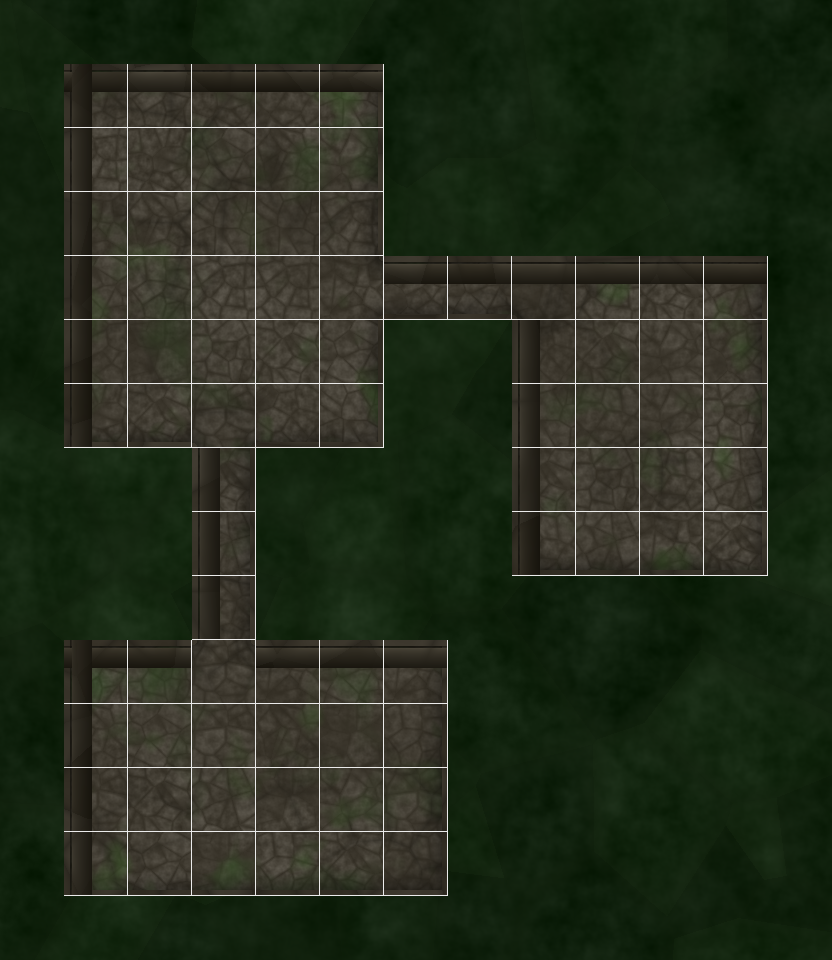
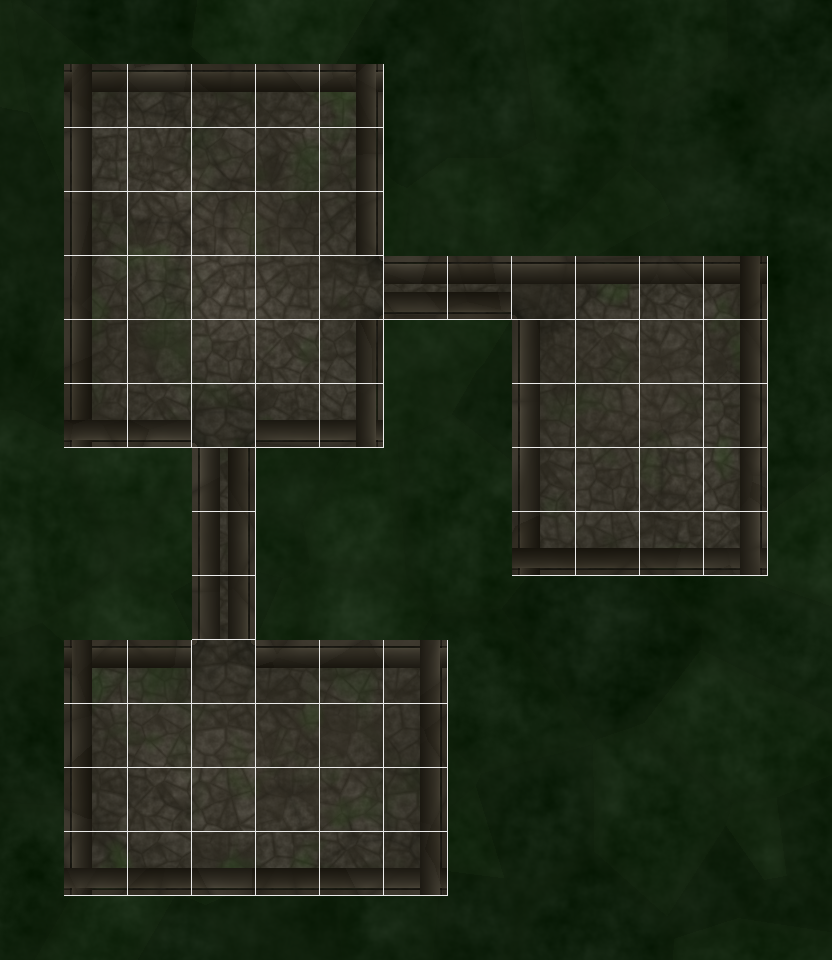
Move walls outside floor extent into void
Wall top border and inner faces now render entirely in the void,
adjacent to floor edges. Floor area stays full-size with grid
squares going edge-to-edge. Uses void distance transform to place
wall bands at correct distances from the floor boundary.

diff --git a/tools/texgen/preview.py b/tools/texgen/preview.py
@@ -342,20 +342,16 @@ def render_exterior(canvas_arr, floor_mask, theme):
 
 def render_walls(canvas_arr, floor_mask, theme):
     """
-    2.5D wall rendering — looking DOWN into rooms.
+    2.5D wall rendering — walls are OUTSIDE the floor extent.
 
-    Far walls (north, west) show their inner face INTO the floor area.
-    Near walls (south, east) show only the wall-top border.
-    This creates the illusion of recessed rooms, not elevated platforms.
-
-    - Wall top border: floor pixels within WALL_THICKNESS of any edge
-    - North inner face: floor pixels below a north edge, painted as
-      the far wall face receding downward (darker toward floor)
-    - West inner face: floor pixels right of a west edge, painted as
-      the far wall face receding rightward
-    - South/east edges: bright highlight (wall top catch light)
+    Wall top border and inner faces are drawn in the void, adjacent
+    to floor edges. The floor area stays full-size with no wall
+    intrusion. Inner faces extend from the wall top inward toward
+    the floor, creating a ledge/cliff effect seen from above.
     """
-    inner_dist = distance_transform_edt(floor_mask)
+    void_mask = ~floor_mask
+    # Distance from floor edge into the void
+    void_dist = distance_transform_edt(void_mask)
     wall_noise = continuous_noise(PX_H, PX_W, scale=2.0, octaves=2,
                                   seed=hash(theme['name']) & 0xFFFF)
 
@@ -363,119 +359,63 @@ def render_walls(canvas_arr, floor_mask, theme):
     face_lit = np.array(theme['wall_face_lit'], dtype=np.float64)
     face_dark = np.array(theme['wall_face_dark'], dtype=np.float64)
 
-    # --- Voronoi stone texture for wall faces ---
-    # Generate a separate stone pattern for the walls so faces have block detail
+    # --- Voronoi stone texture for walls ---
     print("    Wall stone texture...", end='', flush=True)
     wall_cells, wall_edges = continuous_voronoi(PX_H, PX_W, density=1.2, seed=700)
-    wall_stone_var = (wall_cells - 0.5) * 18  # per-block color variation
-    wall_mortar = np.clip(1.0 - wall_edges * 4.5, 0, 1) ** 1.5  # mortar lines
+    wall_stone_var = (wall_cells - 0.5) * 18
+    wall_mortar = np.clip(1.0 - wall_edges * 4.5, 0, 1) ** 1.5
     print(" done")
 
-    # --- Wall top border (all edges) ---
-    # Flat stone surface, no gradient. Textured with noise + stone blocks.
-    print("    Wall borders...", end='', flush=True)
-    border_mask = floor_mask & (inner_dist <= WALL_THICKNESS)
-    noise_var = (wall_noise - 0.5) * 10
-    for c in range(3):
-        # Flat color with noise texture, no brightness gradient
-        base_val = wall_top[c] + noise_var + wall_stone_var
-        # Darken mortar lines
-        base_val = base_val * (1 - wall_mortar * 0.4) + (wall_top[c] * 0.5) * wall_mortar * 0.4
-        canvas_arr[:, :, c] = np.where(
-            border_mask, np.clip(base_val, 0, 255), canvas_arr[:, :, c])
+    # Total wall extent into void = border + face
+    total_wall = WALL_THICKNESS + WALL_FACE_HEIGHT
+
+    # --- Inner faces first (furthest from floor, drawn behind wall top) ---
+    # These are void pixels near the floor edge, beyond the wall top border.
+    # Face goes from WALL_THICKNESS to WALL_THICKNESS + WALL_FACE_HEIGHT
+    # away from the floor edge, getting darker as it recedes.
+    print("    Inner faces...", end='', flush=True)
+
+    # Find floor edges (void pixels adjacent to floor)
+    # void_dist == 1 means immediately adjacent to floor
+    # Wall top occupies void_dist 1..WALL_THICKNESS
+    # Face occupies void_dist WALL_THICKNESS+1..total_wall
+
+    for d in range(WALL_FACE_HEIGHT):
+        dist_val = WALL_THICKNESS + 1 + d
+        face_band = void_mask & (void_dist >= dist_val - 0.5) & (void_dist < dist_val + 0.5)
+        # t=0 at top of face (near wall border), t=1 at bottom (deep)
+        t = (d / WALL_FACE_HEIGHT) ** 0.7
+        base = face_lit * (1 - t) + face_dark * t
+        for c in range(3):
+            color = base[c] + np.where(face_band, wall_stone_var * (1 - t * 0.5), 0)
+            color = color * (1 - wall_mortar * 0.3 * (1 - t)) + face_dark[c] * wall_mortar * 0.3 * (1 - t)
+            color += np.where(face_band, (wall_noise - 0.5) * 8 * (1 - t), 0)
+            canvas_arr[:, :, c] = np.where(
+                face_band, np.clip(color, 0, 255), canvas_arr[:, :, c])
     print(" done")
 
-    # --- Dark edge line between wall top and inner face (all 4 edges) ---
+    # --- Dark crease line between wall top and inner face ---
     print("    Edge creases...", end='', flush=True)
-    north_edge = np.zeros((PX_H, PX_W), dtype=bool)
-    north_edge[1:, :] = floor_mask[1:, :] & ~floor_mask[:-1, :]
-    west_edge = np.zeros((PX_H, PX_W), dtype=bool)
-    west_edge[:, 1:] = floor_mask[:, 1:] & ~floor_mask[:, :-1]
-    south_edge_c = np.zeros((PX_H, PX_W), dtype=bool)
-    south_edge_c[:-1, :] = floor_mask[:-1, :] & ~floor_mask[1:, :]
-    east_edge_c = np.zeros((PX_H, PX_W), dtype=bool)
-    east_edge_c[:, :-1] = floor_mask[:, :-1] & ~floor_mask[:, 1:]
-
     crease_color = face_dark * 0.7
     for d in range(2):
         a = 0.6 * (1 - d * 0.4)
-        offset = WALL_THICKNESS + d
-        # North crease (shift down)
-        crease = np.zeros((PX_H, PX_W), dtype=bool)
-        if offset < PX_H:
-            crease[offset:, :] = north_edge[:-offset, :]
-        crease &= floor_mask
-        for c in range(3):
-            canvas_arr[:, :, c] = np.where(crease,
-                np.clip(canvas_arr[:, :, c] * (1 - a) + crease_color[c] * a, 0, 255),
-                canvas_arr[:, :, c])
-        # West crease (shift right)
-        crease = np.zeros((PX_H, PX_W), dtype=bool)
-        if offset < PX_W:
-            crease[:, offset:] = west_edge[:, :-offset]
-        crease &= floor_mask
-        for c in range(3):
-            canvas_arr[:, :, c] = np.where(crease,
-                np.clip(canvas_arr[:, :, c] * (1 - a) + crease_color[c] * a, 0, 255),
-                canvas_arr[:, :, c])
-        # South crease (shift up)
-        crease = np.zeros((PX_H, PX_W), dtype=bool)
-        if offset < PX_H:
-            crease[:-offset, :] = south_edge_c[offset:, :]
-        crease &= floor_mask
-        for c in range(3):
-            canvas_arr[:, :, c] = np.where(crease,
-                np.clip(canvas_arr[:, :, c] * (1 - a) + crease_color[c] * a, 0, 255),
-                canvas_arr[:, :, c])
-        # East crease (shift left)
-        crease = np.zeros((PX_H, PX_W), dtype=bool)
-        if offset < PX_W:
-            crease[:, :-offset] = east_edge_c[:, offset:]
-        crease &= floor_mask
+        dist_val = WALL_THICKNESS + d
+        crease = void_mask & (void_dist >= dist_val + 0.5) & (void_dist < dist_val + 1.5)
         for c in range(3):
             canvas_arr[:, :, c] = np.where(crease,
                 np.clip(canvas_arr[:, :, c] * (1 - a) + crease_color[c] * a, 0, 255),
                 canvas_arr[:, :, c])
     print(" done")
 
-    # --- All four inner faces (uniform lighting, radial handles depth) ---
-    print("    Inner faces...", end='', flush=True)
-    # South edge (void below) and East edge (void right) also get faces now
-    south_edge = np.zeros((PX_H, PX_W), dtype=bool)
-    south_edge[:-1, :] = floor_mask[:-1, :] & ~floor_mask[1:, :]
-    east_edge = np.zeros((PX_H, PX_W), dtype=bool)
-    east_edge[:, :-1] = floor_mask[:, :-1] & ~floor_mask[:, 1:]
-
-    edges = [
-        ('n', north_edge, 'y', 1),   # shift down into floor
-        ('w', west_edge,  'x', 1),   # shift right into floor
-        ('s', south_edge, 'y', -1),  # shift up into floor
-        ('e', east_edge,  'x', -1),  # shift left into floor
-    ]
-
-    for name, edge, axis, direction in edges:
-        for d in range(WALL_FACE_HEIGHT):
-            target = np.zeros((PX_H, PX_W), dtype=bool)
-            offset = WALL_THICKNESS + 2 + d
-            if axis == 'y':
-                if direction > 0 and offset < PX_H:
-                    target[offset:, :] = edge[:-offset, :]
-                elif direction < 0 and offset < PX_H:
-                    target[:-offset, :] = edge[offset:, :]
-            else:
-                if direction > 0 and offset < PX_W:
-                    target[:, offset:] = edge[:, :-offset]
-                elif direction < 0 and offset < PX_W:
-                    target[:, :-offset] = edge[:, offset:]
-            paint_mask = target & floor_mask
-            t = (d / WALL_FACE_HEIGHT) ** 0.7
-            base = face_lit * (1 - t) + face_dark * t
-            for c in range(3):
-                color = base[c] + np.where(paint_mask, wall_stone_var * (1 - t * 0.5), 0)
-                color = color * (1 - wall_mortar * 0.3 * (1 - t)) + face_dark[c] * wall_mortar * 0.3 * (1 - t)
-                color += np.where(paint_mask, (wall_noise - 0.5) * 8 * (1 - t), 0)
-                canvas_arr[:, :, c] = np.where(
-                    paint_mask, np.clip(color, 0, 255), canvas_arr[:, :, c])
+    # --- Wall top border (void pixels closest to floor edge) ---
+    print("    Wall borders...", end='', flush=True)
+    border_mask = void_mask & (void_dist <= WALL_THICKNESS)
+    noise_var = (wall_noise - 0.5) * 10
+    for c in range(3):
+        base_val = wall_top[c] + noise_var + wall_stone_var
+        base_val = base_val * (1 - wall_mortar * 0.4) + (wall_top[c] * 0.5) * wall_mortar * 0.4
+        canvas_arr[:, :, c] = np.where(
+            border_mask, np.clip(base_val, 0, 255), canvas_arr[:, :, c])
     print(" done")
 
 
